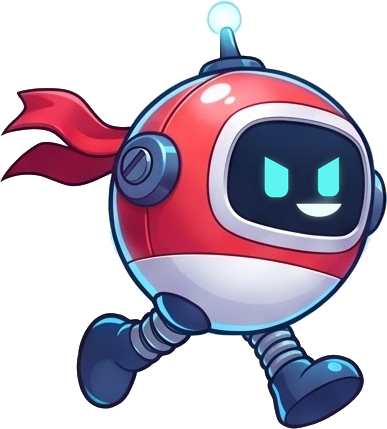
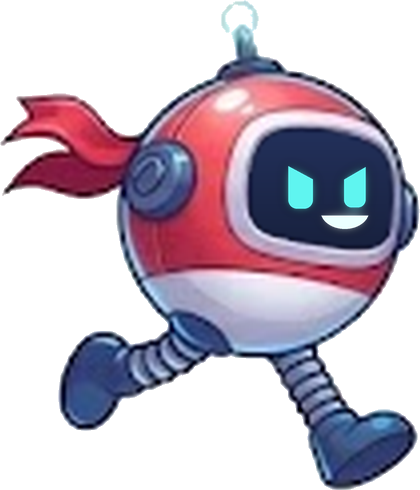
Pip: new 6-frame run cycle and updated game sprite sheet
Claude-Session: https://claude.ai/code/session_01RNNWXtjNEFECPWG91zZ4Bg

diff --git a/README.md b/README.md
@@ -22,7 +22,7 @@ Pictures made for my projects, kept in one place so any app can use them.
 | `twenty-four-doors/` | 4 tall phone backgrounds (snowy village, birch forest, toy town, town square) and 8 painted advent door fronts with blank plaques, for Twenty-Four Doors |
 | `who-is-it/` | 24 friendly head-and-shoulders portraits on a cream background, all different (hair colour and style, glasses, hats, beards, earrings), made for Who Is It? in Head to Head |
 | `robot/` | concept pictures of the Claude home robot (phone head on a charcoal-and-gold body), photo-style, made to show what the finished product could look like |
-| `pip/` | Pip, the red robot hero of the platformer game (bold outlined cartoon style): a hero picture, 12 separate poses with see-through backgrounds in `pip/poses/` (idle, blink, land, happy, run 1–4, jump, spin, hurt, tumble), and the game-ready sprite sheet `pip-game-sheet.png` with its `.json` |
+| `pip/` | Pip, the red robot hero of the platformer game (bold outlined cartoon style): a hero picture, 12 separate poses with see-through backgrounds in `pip/poses/` (idle, blink, land, happy, run 1–6, jump, spin, hurt, tumble), and the game-ready sprite sheet `pip-game-sheet.png` with its `.json` |
 | `flags/` | every country's flag (271, incl. Wales, England, Scotland, EU, UN), square versions in `flags/square/`, names and capitals in `flags/flags.json` (flag-icons, MIT licence) |
 | `originals/` | the full-size Gemini sheets, exactly as made |
 | `library.json` | a list of every picture with its name and file, for apps to read |
